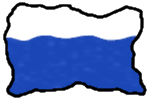
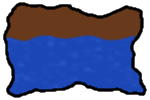
Graphics, Title Screen, Bugfixes

Changed region(s): [[0.0267, 0.03, 0.96, 0.42]]

diff --git a/web/input.dart b/web/input.dart
@@ -8,12 +8,15 @@ num dragX, dragY;
 Root addRoot;
 
 void onClick(MouseEvent event) {
-  num x = getXInWorld(event.layer.x);
-  num y = getYInWorld(event.layer.y);
-  for (int i = 0; i < mice.length; i++) {
-    if (mice[i].contains(new Point(x, y))) {
-      mice.removeAt(i);
-      sndDie.play();
+  if (!paused) {
+    num x = getXInWorld(event.layer.x);
+    num y = getYInWorld(event.layer.y);
+    for (int i = 0; i < mice.length; i++) {
+      if (mice[i].contains(new Point(x, y))) {
+        mice.removeAt(i);
+        score += 5;
+        sndDie.play();
+      }
     }
   }
 }
@@ -31,44 +34,46 @@ void onMouseUp(MouseEvent event) {
 }
 
 void onMouseMove(MouseEvent event) {
-  mouseX = event.layer.x;
-  mouseY = event.layer.y;
-  if (mouseDown) {
-    num x = getXInWorld(event.layer.x);
-    num y = getYInWorld(event.layer.y);
-    if (!dragging) {
-      Root r = mainRoot.getRootWhichHasPointAround(x, y);
-      if (r != null) {
-        dragging = true;
-        addRootFork = r.getPointAround(x, y);
+  if (!paused) {
+    mouseX = event.layer.x;
+    mouseY = event.layer.y;
+    if (mouseDown) {
+      num x = getXInWorld(event.layer.x);
+      num y = getYInWorld(event.layer.y);
+      if (!dragging) {
+        Root r = mainRoot.getRootWhichHasPointAround(x, y);
+        if (r != null) {
+          dragging = true;
+          addRootFork = r.getPointAround(x, y);
+          dragX = x;
+          dragY = y;
+          addRoot = r;
+        }
+      } else {
         dragX = x;
         dragY = y;
-        addRoot = r;
       }
-    } else {
-      dragX = x;
-      dragY = y;
-    }
-  } else if (dragging) {
-    dragging = false;
-    if (addRoot.points.contains(addRootFork) && addRoot.parent != null) {
-      num dx = dragX - addRootFork.x;
-      num dy = dragY - addRootFork.y;
-      if (dy < 0) {
-        addRoot.addSubroot(new Root(addRoot, addRootFork, atan(dx / dy) + PI, sqrt(dx * dx + dy * dy)));
-      } else {
-        addRoot.addSubroot(new Root(addRoot, addRootFork, atan(dx / dy), sqrt(dx * dx + dy * dy)));
-      }
-      sndRoot.play();
-      if (tutorial) {
-        updateTutorial('root');
+    } else if (dragging) {
+      dragging = false;
+      if (addRoot.points.contains(addRootFork) && addRoot.parent != null) {
+        num dx = dragX - addRootFork.x;
+        num dy = dragY - addRootFork.y;
+        if (dy < 0) {
+          addRoot.addSubroot(new Root(addRoot, addRootFork, atan(dx / dy) + PI, sqrt(dx * dx + dy * dy)));
+        } else {
+          addRoot.addSubroot(new Root(addRoot, addRootFork, atan(dx / dy), sqrt(dx * dx + dy * dy)));
+        }
+        sndRoot.play();
+        if (tutorial) {
+          updateTutorial('root');
+        }
       }
     }
   }
 }
 
 void onMouseWheel(WheelEvent event) {
-  if (!gameOver) {
+  if (!gameOver && !paused) {
     num x = worldX + event.layer.x / worldScale;
     num y = worldY + event.layer.y / worldScale;
     worldScale -= event.deltaY.sign / 10;
@@ -81,6 +86,9 @@ void onMouseWheel(WheelEvent event) {
       worldScale = canvasHeight / worldHeight;
     } else {
       worldY = y - event.layer.y / worldScale;
+    }
+    if (tutorial) {
+      updateTutorial('map');
     }
   }
 }

diff --git a/web/ld29.dart b/web/ld29.dart
@@ -38,6 +38,14 @@ bool gameOver;
 bool paused;
 
 void main() {
+  loadResources();
+  ButtonElement t = querySelector('#tut');
+  ButtonElement n = querySelector('#no_tut');
+  t.onClick.listen((MouseEvent) => start(true));
+  n.onClick.listen((MouseEvent) => start(false));
+}
+
+void start(bool tut) {
   CanvasElement c = querySelector('#canvas');
   canvas = c.context2D;
   CanvasElement b = new CanvasElement();
@@ -74,7 +82,7 @@ void main() {
   drainInterval = 1000;
   waterSupply = 200;
   mouseTime = 0;
-  mouseInterval = 20000;
+  mouseInterval = 30000;
   gnawTime = 0;
   gnawInterval = 1000;
   endTime = 0;
@@ -82,20 +90,18 @@ void main() {
   score = 0;
   gameOver = false;
   paused = false;
-  tutorial = true;
-  loadResources();
+  tutorial = tut;
   generateWorld();
+  querySelector('#title').style.display = 'none';
+  c.style.display = 'block';
   if (tutorial) {
     updateTutorial('start');
   }
 }
 
-/**
- * adds lakes
- */
 void generateWorld() {
   for (int i = 0; i < 50; i++) {
-    hittables.add(new Lake(random.nextInt(3500) + 500, random.nextInt(8000) + 500));
+    hittables.add(new Lake(random.nextInt(3500) + 1000, random.nextInt(8000) + 500));
   }
   for (int i = 0; i < 20; i++) {
     hittables.add(new FertilizerSmall(random.nextInt(3500) + 250, random.nextInt(5000) + 3000));
@@ -256,6 +262,7 @@ void drawWorld() {
       hittables[i].draw();
     }
     mainRoot.draw(0);
+    buffer.drawImageToRect(imgSprout, new Rectangle<num>(getXOnCanvas(worldWidth / 2 - 12), getYOnCanvas(100), 34 * worldScale, 100 * worldScale));
     for (int i = 0; i < mice.length; i++) {
       mice[i].draw();
     }

diff --git a/web/resources.dart b/web/resources.dart
@@ -3,7 +3,8 @@ part of ld29;
 ImageElement imgGround;
 ImageElement imgGrass;
 ImageElement imgSky;
-ImageElement imgUnknown;
+ImageElement imgSprout;
+ImageElement imgWaterUnknown;
 List<ImageElement> imgWater;
 List<ImageElement> imgFertilizerSmall;
 List<ImageElement> imgFertilizerLarge;
@@ -27,8 +28,10 @@ void loadResources() {
   imgGrass.src = 'res/grass.png';
   imgSky = new ImageElement();
   imgSky.src = 'res/sky.png';
-  imgUnknown = new ImageElement();
-  imgUnknown.src = 'res/unknown.png';
+  imgSprout = new ImageElement();
+  imgSprout.src = 'res/sprout.png';
+  imgWaterUnknown = new ImageElement();
+  imgWaterUnknown.src = 'res/water_unknown.png';
   imgWater = new List<ImageElement>();
   for (int i = 0; i < 4; i++) {
     imgWater.add(new ImageElement());

diff --git a/web/lake.dart b/web/lake.dart
@@ -45,7 +45,7 @@ class Lake extends Hittable {
       known = true;
       score += 5;
     }
-    if (!connected) {
+    if (!connected && fullness > 0) {
       root.target = root.length;
       root.hittable = this;
       connected = true;
@@ -75,7 +75,7 @@ class Lake extends Hittable {
         buffer.drawImageToRect(imgWater[3], new Rectangle<num>(getXOnCanvas(x), getYOnCanvas(y), width * worldScale, height * worldScale));
       }
     } else {
-      buffer.drawImageToRect(imgUnknown, new Rectangle<num>(getXOnCanvas(x), getYOnCanvas(y), width * worldScale, height * worldScale));
+      buffer.drawImageToRect(imgWaterUnknown, new Rectangle<num>(getXOnCanvas(x), getYOnCanvas(y), width * worldScale, height * worldScale));
     }
   }
 

diff --git a/web/ld29.css b/web/ld29.css
@@ -4,8 +4,30 @@ html, body {
   margin: 0;
 }
 
+#title {
+  padding: 100px;
+  font-family: sans-serif;
+  font-size: 20px;
+  color: #004488;
+  text-align: center;
+  background-color: #88BBFF;
+}
+#title h1 {
+  font-size: 100px;
+  color: #0088FF;
+}
+#title h2 {
+  font-size: 40px;
+  color: #0066BB;
+}
+#title h3 {
+  font-size: 12px;
+  font-style: bold;
+  color: #002244;
+}
+
 #canvas {
-  display: block;
+  display: none;
 }
 
 #tutorial {
@@ -18,7 +40,7 @@ html, body {
   text-align: center;
   border: 5px solid #4466DD;
   border-radius: 5px;
-  background-color: #6688FF;
+  background-color: #88BBFF;
 }
 
 #tutorial_text {

diff --git a/web/ld29.html b/web/ld29.html
@@ -8,6 +8,13 @@
   </head>
   <body>
     <div id="container">
+      <div id="title">
+        <h1>Radix</h1>
+        <h2>Made in 48h for Ludum Dare 29</h2>
+        <h3>by phi</h3>
+        <button id="tut">Play with tutorial</button>
+        <button id="no_tut">Play without tutorial</button>
+      </div>
       <canvas id="canvas" width="500" height="300"></canvas>
       <div id="tutorial">
         <div id="tutorial_text"></div>

diff --git a/web/mouse.dart b/web/mouse.dart
@@ -32,7 +32,7 @@ class Mouse {
   
   void gnaw() {
     nom++;
-    if (nom >= 5) { // <-- number of seconds
+    if (nom >= 6) { // <-- number of seconds
       root.removeFromPoint(point);
       done = true;
     }
